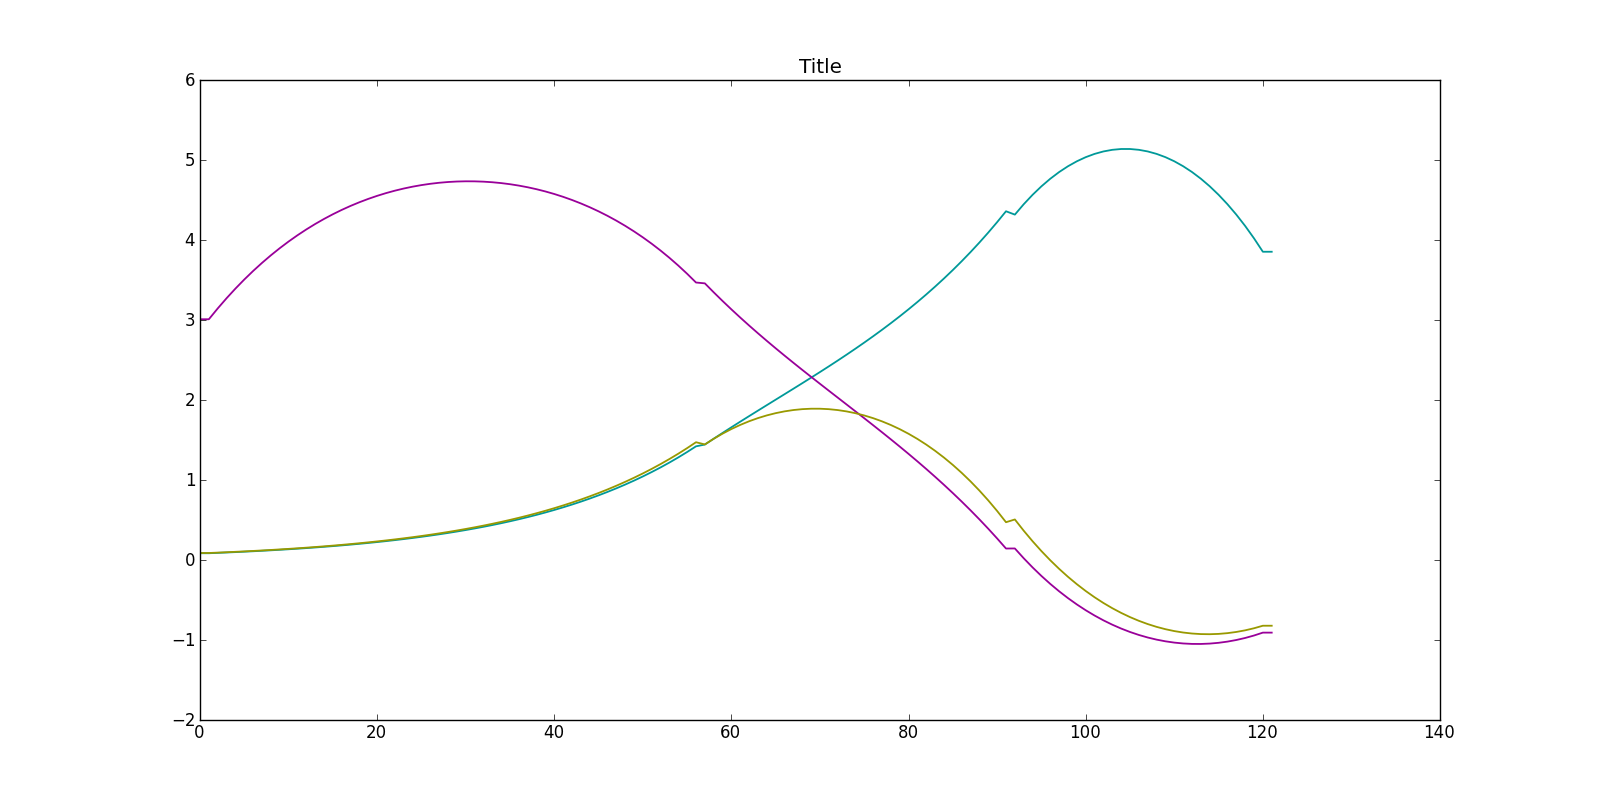
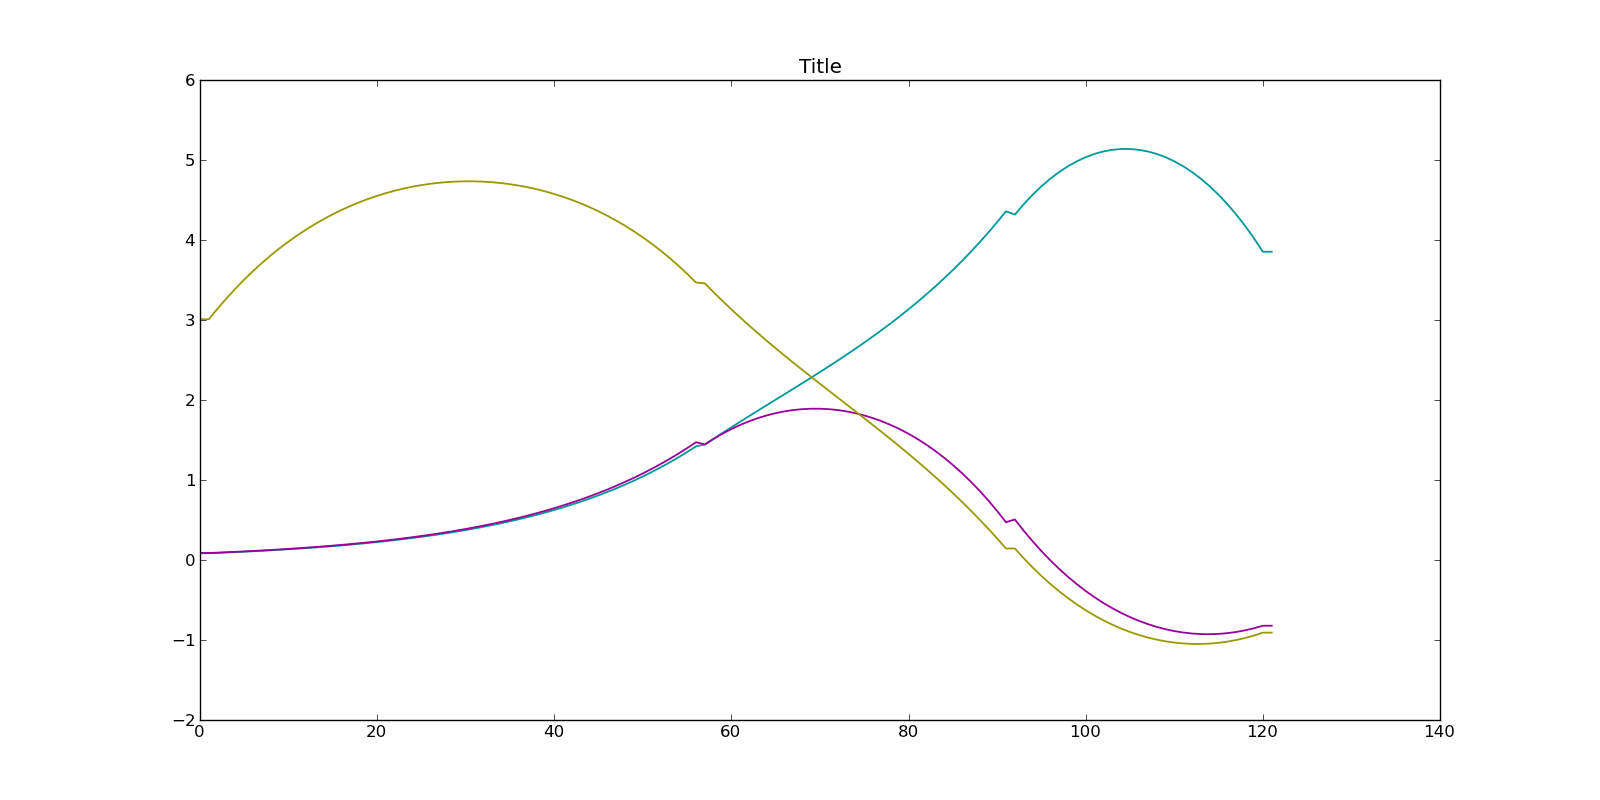
add better error handling in case of invalid arguments

diff --git a/visualseq.py b/visualseq.py
@@ -8,7 +8,8 @@ Run with -h to see the options.'''
 __author__ = 'Igor Rodrigues da Costa'
 __copyright__ = "Copyright 2012-2013, Igor Rodrigues da Costa"
 __contact__ = 'igor.bioinfo@gmail.com'
-__licence__ = '''Permission to use, copy, modify, and distribute this software and its
+__licence__ = '''
+Permission to use, copy, modify, and distribute this software and its
 documentation with or without modifications and for any purpose and
 without fee is hereby granted, provided that any copyright notices
 appear in all copies and that both those copyright notices and this
@@ -118,12 +119,12 @@ for x in BLOSUM.keys():
         ID_MATRIX[x] = 0
 
 def argument_parser(h = False):
-    '''visualseq.py f1.fasta f2.fasta f3.fasta -o outfile.png -t Title -m Matrix -a Filter
+    '''visualseq.py -i f1.fasta f2.fasta f3.fasta -o outfile.png -t Title -m Matrix -a Filter
     '''
     parser = argparse.ArgumentParser(description = 'Prints an image comparing 3 multiple alignment files (1 group for file). \
                                      All sequences must have the same lenght.',\
                                      argument_default = None)
-    parser.add_argument('file', nargs = 3, type = argparse.FileType('rb'),\
+    parser.add_argument('-i', '--infile', nargs = 3, type = argparse.FileType('rb'),\
                         help = '3 multiple alignment fasta files (not necessarily the same number \
                         of sequences in every file, but every sequence must have the same size).')
     parser.add_argument('-o', '--outfile', nargs = '?', type = str, default = 'outfile.png',\
@@ -139,7 +140,10 @@ def argument_parser(h = False):
     if h:
         args = parser.parse_args(['-h'])
     else:
-        args = parser.parse_args().__dict__
+        try:
+            args = parser.parse_args().__dict__
+        except:
+            pass
     
     
     return args
@@ -268,15 +272,16 @@ def run(path, matrix, alpha = 0.05, lowpass = True, intra = False):
     return x1, y1, x2, y2, x3, y3    
         
 if  __name__ == "__main__":
-    try:
-        args = argument_parser()
-    except Exception:
+    args = argument_parser()
+    print args['infile']
+    if not args['infile'] or len(args['infile']) < 3:
+        print 'too few fasta files (need 3)'
         argument_parser(h = True)
     if args['matrix'] == 'BLOSUM':
         matrix = BLOSUM
     elif args['matrix'] == 'ID_MATRIX':
         matrix = ID_MATRIX
-    x1, y1, x2, y2, x3, y3 = run(args['file'], matrix, args['alpha'], not args['no_lowpass'])
+    x1, y1, x2, y2, x3, y3 = run(args['infile'], matrix, args['alpha'], not args['no_lowpass'])
     rcParams['figure.figsize'] = 16, 8
     plot(x1, y1, '#009999', x2, y2, '#990099', x3, y3, '#999900', linewidth= 1.3)
     title(args['title'])
